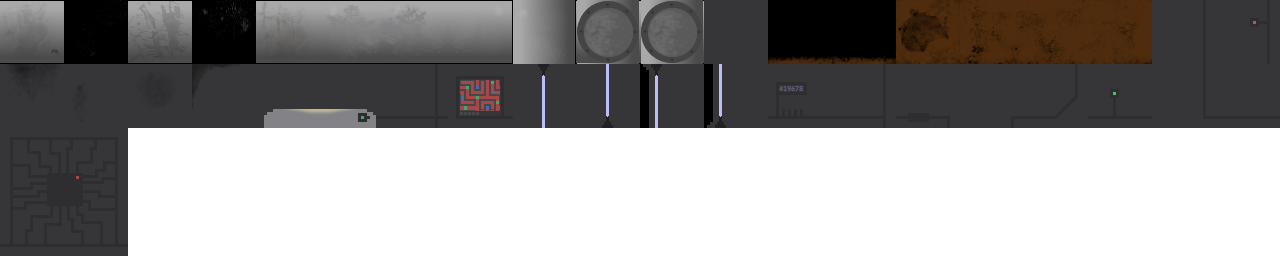
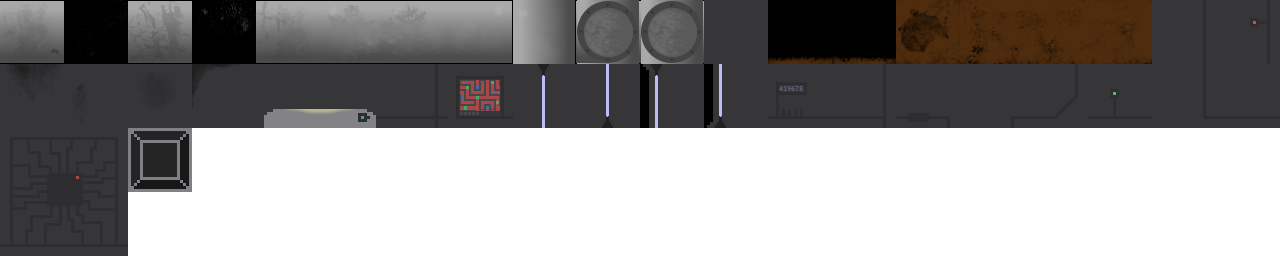
Add storage crates to lvl1

Changed region(s): [[0.0938, 0.5, 0.1562, 0.75]]

diff --git a/js/mainGameState.js b/js/mainGameState.js
@@ -27,7 +27,7 @@ MainGameState.prototype.create = function()
     this.game.stage.backgroundColor = '#000000';
     this.map = this.game.add.tilemap('lvl1');
     this.map.addTilesetImage('lvl1tiles');
-    this.map.setCollision([1, 3, 5, 6, 7, 8, 9, 10, 11, 15, 16, 17, 18], true);
+    this.map.setCollision([1, 3, 5, 6, 7, 8, 9, 10, 11, 15, 16, 17, 18, 43], true);
     this.map.setCollision([2, 4, 12, 13, 14, 19, 20, 23, 24, 25, 26, 27, 28, 29, 30, 31, 32, 33, 34, 35, 36, 37, 38, 39, 40,
                           41, 42, 51, 52], false);
     this.layer = this.map.createLayer('layer1');
